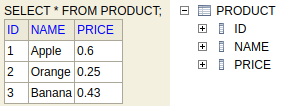
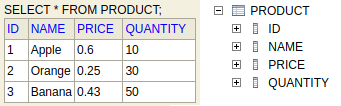
new feature: product stock / inventory check

diff --git a/README.md b/README.md
@@ -6,7 +6,7 @@ A RESTful web service allows customers to shop and place orders online.
 * Product Creation & Enquiry
 * Order Creation & Enquiry
 
-## Skeleton Setup created by [Spring Initializr](#https://start.spring.io/)
+## Project Skeleton created by Spring Initializr
 * Spring Boot v2.5.1
 * Apache Maven v4.0.0
 * Java v11
@@ -40,32 +40,44 @@ H2 Database Console can be access by <http://localhost:8080/h2><br/>
 ![Order Summary Table](./info/table_order_summary.png)
 ![Order Promotion Table](./info/table_order_promo.png)
 
-## Request Links and Unit Test Case Names
+## Service Links and Names of Test Cases
+All test classes are implemented under `src/test/java/online/shopping`<br>
+
 ### GET
-* http://localhost:8080/products<br>
+* List All Products<br>
+http://localhost:8080/products<br>
 (ProductTests#getAllProductsAPI)
-* http://localhost:8080/product/{id}<br>
+* Get Details of a Product<br>
+http://localhost:8080/product/{id}<br>
 (ProductTests#getProductByIdAPI)
-* http://localhost:8080/customers
-* http://localhost:8080/customer/{id}
-* http://localhost:8080/customer/{id}/orders<br>
+* List All Customers<br>
+http://localhost:8080/customers
+* Get Details of a Customer<br>
+http://localhost:8080/customer/{id}
+* List All Orders of a Customer<br>
+http://localhost:8080/customer/{id}/orders<br>
 (CustomerOrderTests#getOrdersOfSingleCustomer, CustomerOrderTests#getOrdersOfNotExistCustomer)
-* http://localhost:8080/orders<br>
+* List All Orders<br>
+http://localhost:8080/orders<br>
 (OrderTests#getAllOrders)
-* http://localhost:8080/order/{id}<br>
+* Get Details of an Order<br>
+http://localhost:8080/order/{id}<br>
 (OrderTests#getSingleOrder, OrderTests#getNotExistOrder)
 
 ### POST
-* http://localhost:8080/customer/save
-* http://localhost:8080/product/save<br>
+* Save a Customer<br>
+http://localhost:8080/customer/save
+* Save a Product<br>
+http://localhost:8080/product/save<br>
 (ProductTests#saveProduct)
-* http://localhost:8080/order/save<br>
-(OrderTests#saveNoOrder, OrderTests#saveSingleOrder, OrderTests#saveMultiOrders)
-* http://localhost:8080/order/promo/save<br>
+* Save an Order without Promotion Applied<br>
+http://localhost:8080/order/save<br>
+(OrderTests#saveNoOrder, OrderTests#saveSingleOrder, OrderTests#saveOutOfStockOrder, OrderTests#saveMultiOrders)
+* Save an Order with Promotion Applied<br>
+http://localhost:8080/order/promo/save<br>
 (PromoTests#applyNoPromotion, PromoTests#applySinglePromotion, PromoTests#applyMultiPromotions, )
 
 ## Run Unit Tests with Maven
-All test classes are implemented under `src/test/java/online/shopping`<br>
 Run any of below commands in the `root folder where pom.xml exists`<br>
 
 Run all tests
@@ -78,7 +90,7 @@ Run a single test class
 mvn -Dtest=ProductTests test
 ```
 
-Run a multiple test classes
+Run multiple test classes
 ```bash
 mvn -Dtest=ProductTests,OrderTests test
 ```
